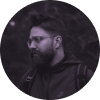
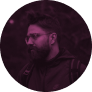
Additional theme, image optimization

diff --git a/index.html b/index.html
@@ -20,10 +20,12 @@
           <div>Designer</div>
         </div>
         <div class="cover">
-          <!-- <svg width="46" height="46" viewBox="0 0 46 46" fill="none" xmlns="http://www.w3.org/2000/svg">
+          <svg width="46" height="46" viewBox="0 0 46 46" fill="none" xmlns="http://www.w3.org/2000/svg">
             <circle cx="23" cy="23" r="23" fill="#482312"/>
-            <path fill-rule="evenodd" clip-rule="evenodd" d="M21.9167 21.9167C21.4508 18.9182 19.0818 16.5492 16.0833 16.0833C16.5492 19.0818 18.9182 21.4508 21.9167 21.9167ZM14.0496 14.0496C14.5244 9.52579 18.3504 6 23 6C27.6496 6 31.4756 9.52579 31.9504 14.0496C36.4742 14.5244 40 18.3504 40 23C40 27.6496 36.4742 31.4756 31.9504 31.9504C31.4756 36.4742 27.6496 40 23 40C18.3504 40 14.5244 36.4742 14.0496 31.9504C9.52579 31.4756 6 27.6496 6 23C6 18.3504 9.52579 14.5244 14.0496 14.0496ZM16.0623 31.938C16.5206 35.3605 19.4521 38 23 38C26.5479 38 29.4794 35.3605 29.9377 31.938C26.9099 31.5819 24.3418 29.7229 23 27.1272C21.6582 29.7229 19.0902 31.5819 16.0623 31.938ZM31.938 29.9377C35.3605 29.4794 38 26.5479 38 23C38 19.4521 35.3605 16.5206 31.938 16.0623C31.5819 19.0901 29.7229 21.6582 27.1272 23C29.7229 24.3418 31.5819 26.9099 31.938 29.9377ZM29.9167 29.9167C29.4508 26.9182 27.0818 24.5492 24.0833 24.0833C24.5492 27.0818 26.9182 29.4508 29.9167 29.9167ZM16.0833 29.9167C19.0818 29.4508 21.4508 27.0818 21.9167 24.0833C18.9182 24.5492 16.5492 26.9182 16.0833 29.9167ZM18.8728 23C16.2771 24.3418 14.4181 26.9099 14.062 29.9377C10.6396 29.4794 8 26.5479 8 23C8 19.4521 10.6395 16.5206 14.062 16.0623C14.4181 19.0901 16.2771 21.6582 18.8728 23ZM23 8C26.5479 8 29.4794 10.6396 29.9377 14.062C26.9099 14.4181 24.3418 16.2771 23 18.8728C21.6582 16.2771 19.0901 14.4181 16.0623 14.062C16.5206 10.6396 19.4521 8 23 8ZM29.9167 16.0833C26.9182 16.5492 24.5492 18.9182 24.0833 21.9167C27.0818 21.4508 29.4508 19.0818 29.9167 16.0833Z" fill="white"/>
-          </svg>             -->
+            <path class="yellow orange" fill-rule="evenodd" clip-rule="evenodd" d="M22 7H24V20.5858L33.6066 10.9792L35.0208 12.3934L25.4142 22H39V24H25.4142L35.0208 33.6066L33.6066 35.0208L24 25.4142V39H22V25.4142L12.3934 35.0208L10.9792 33.6066L20.5858 24H7V22H20.5858L10.9792 12.3934L12.3934 10.9792L22 20.5858V7Z" fill="white"/>
+            <path class="cyan purple" fill-rule="evenodd" clip-rule="evenodd" d="M21.9167 21.9167C21.4508 18.9182 19.0818 16.5492 16.0833 16.0833C16.5492 19.0818 18.9182 21.4508 21.9167 21.9167ZM14.0496 14.0496C14.5244 9.52579 18.3504 6 23 6C27.6496 6 31.4756 9.52579 31.9504 14.0496C36.4742 14.5244 40 18.3504 40 23C40 27.6496 36.4742 31.4756 31.9504 31.9504C31.4756 36.4742 27.6496 40 23 40C18.3504 40 14.5244 36.4742 14.0496 31.9504C9.52579 31.4756 6 27.6496 6 23C6 18.3504 9.52579 14.5244 14.0496 14.0496ZM16.0623 31.938C16.5206 35.3605 19.4521 38 23 38C26.5479 38 29.4794 35.3605 29.9377 31.938C26.9099 31.5819 24.3418 29.7229 23 27.1272C21.6582 29.7229 19.0902 31.5819 16.0623 31.938ZM31.938 29.9377C35.3605 29.4794 38 26.5479 38 23C38 19.4521 35.3605 16.5206 31.938 16.0623C31.5819 19.0901 29.7229 21.6582 27.1272 23C29.7229 24.3418 31.5819 26.9099 31.938 29.9377ZM29.9167 29.9167C29.4508 26.9182 27.0818 24.5492 24.0833 24.0833C24.5492 27.0818 26.9182 29.4508 29.9167 29.9167ZM16.0833 29.9167C19.0818 29.4508 21.4508 27.0818 21.9167 24.0833C18.9182 24.5492 16.5492 26.9182 16.0833 29.9167ZM18.8728 23C16.2771 24.3418 14.4181 26.9099 14.062 29.9377C10.6396 29.4794 8 26.5479 8 23C8 19.4521 10.6395 16.5206 14.062 16.0623C14.4181 19.0901 16.2771 21.6582 18.8728 23ZM23 8C26.5479 8 29.4794 10.6396 29.9377 14.062C26.9099 14.4181 24.3418 16.2771 23 18.8728C21.6582 16.2771 19.0901 14.4181 16.0623 14.062C16.5206 10.6396 19.4521 8 23 8ZM29.9167 16.0833C26.9182 16.5492 24.5492 18.9182 24.0833 21.9167C27.0818 21.4508 29.4508 19.0818 29.9167 16.0833Z" fill="white"/>
+            <path class="pink brown" fill-rule="evenodd" clip-rule="evenodd" d="M35.0769 27.5495C34.8477 26.7469 34.5383 25.9137 34.1511 25.0631C33.0396 26.7741 31.6719 28.4702 30.071 30.0711C28.4701 31.6719 26.7741 33.0396 25.0632 34.1511C25.9137 34.5383 26.7469 34.8477 27.5494 35.077C30.8224 36.0121 33.1079 35.5195 34.3137 34.3137C35.5195 33.1079 36.0121 30.8224 35.0769 27.5495ZM35.7279 35.7279C38.3867 33.0692 38.0614 28.1119 35.3647 23C38.0613 17.888 38.3866 12.9308 35.7279 10.2721C33.0691 7.61336 28.1119 7.93861 23 10.6353C17.8881 7.93861 12.9308 7.61336 10.2721 10.2721C7.61335 12.9308 7.9386 17.888 10.6353 23C7.93855 28.1119 7.61329 33.0692 10.272 35.7279C12.9308 38.3867 17.888 38.0614 23 35.3647C28.1119 38.0614 33.0692 38.3867 35.7279 35.7279ZM27.5494 10.9231C26.7469 11.1523 25.9137 11.4617 25.0632 11.8489C26.7741 12.9604 28.4702 14.3281 30.0711 15.9289C31.6719 17.5298 33.0396 19.2258 34.1511 20.9368C34.5383 20.0863 34.8476 19.253 35.0769 18.4506C36.012 15.1776 35.5195 12.8921 34.3137 11.6863C33.1078 10.4805 30.8224 9.98791 27.5494 10.9231ZM28.6568 17.3432C26.8345 15.5208 24.9017 14.0403 23 12.9242C21.0982 14.0403 19.1654 15.5208 17.3431 17.3432C15.5208 19.1655 14.0403 21.0982 12.9242 23C14.0403 24.9017 15.5208 26.8345 17.3431 28.6569C19.1655 30.4792 21.0982 31.9597 23 33.0758C24.9017 31.9597 26.8345 30.4792 28.6568 28.6569C30.4792 26.8345 31.9597 24.9018 33.0757 23C31.9597 21.0982 30.4792 19.1655 28.6568 17.3432ZM18.4506 10.9231C19.253 11.1523 20.0863 11.4617 20.9368 11.8489C19.2258 12.9604 17.5298 14.3281 15.9289 15.9289C14.328 17.5298 12.9604 19.2258 11.8489 20.9368C11.4617 20.0863 11.1523 19.253 10.923 18.4506C9.9879 15.1776 10.4805 12.8921 11.6863 11.6863C12.8921 10.4805 15.1776 9.98791 18.4506 10.9231ZM10.923 27.5495C11.1523 26.7469 11.4616 25.9137 11.8489 25.0632C12.9604 26.7741 14.328 28.4702 15.9289 30.0711C17.5298 31.6719 19.2258 33.0396 20.9368 34.1511C20.0863 34.5383 19.253 34.8477 18.4505 35.077C15.1775 36.0121 12.892 35.5195 11.6862 34.3137C10.4804 33.1079 9.98785 30.8225 10.923 27.5495ZM23 25C24.1046 25 25 24.1046 25 23C25 21.8954 24.1046 21 23 21C21.8954 21 21 21.8954 21 23C21 24.1046 21.8954 25 23 25Z" fill="white"/>
+          </svg>
         </div>
       </header>
       <hr>
@@ -63,7 +65,7 @@
    
     <script>
       var tooltip = document.querySelectorAll('.tooltip');
-      var classes = ['yellow', 'orange', 'cyan', 'pink', 'brown'];
+      var classes = ['yellow', 'orange', 'cyan', 'pink', 'brown', 'purple'];
 
       document.addEventListener('mousemove', fn, false);
 

diff --git a/style.css b/style.css
@@ -26,6 +26,24 @@
   }
 }
 
+@keyframes rotate {
+  0% {
+        -ms-transform: rotate(0deg);
+       -moz-transform: rotate(0deg);
+    -webkit-transform: rotate(0deg);
+         -o-transform: rotate(0deg);
+            transform: rotate(0deg);
+  }
+
+  100% {
+        -ms-transform: rotate(360deg);
+       -moz-transform: rotate(360deg);
+    -webkit-transform: rotate(360deg);
+         -o-transform: rotate(360deg);
+            transform: rotate(360deg);
+  }
+}
+
 * {
   box-sizing: border-box;
 }
@@ -69,11 +87,15 @@ body.cyan {
 }
 
 body.pink {
-  background-color: #C0A4CC;
+  background-color: #B24E87;
 }
 
 body.brown {
   background-color: #80673F;
+}
+
+body.purple {
+  background-color: #594BFA;
 }
 
 @media all and (max-width: 639px) {
@@ -220,6 +242,7 @@ a {
   border-radius: 99999px;
   background-color: rgba(72, 35, 18, 1);
   margin-left: 5px;
+  cursor: pointer;
 }
 
 @media all and (max-width: 639px) {
@@ -229,27 +252,49 @@ a {
   }
 }
 
-/* .cover svg {
-  opacity: 0;
-  visibility: hidden;
+.cover path {
+  display: none;
+}
+
+.cover svg {
+  width: 100%;
+  height: 100%;
+  opacity: 1;
+  visibility: visible;
   background-color: rgba(72, 35, 18, 1);
   border-radius: 99999px;
-  -webkit-transition: all 0.5s ease-in-out;
-     -moz-transition: all 0.5s ease-in-out;
-      -ms-transition: all 0.5s ease-in-out;
-       -o-transition: all 0.5s ease-in-out;
-          transition: all 0.5s ease-in-out;
+  -webkit-transition: all 0.25s ease-in-out;
+     -moz-transition: all 0.25s ease-in-out;
+      -ms-transition: all 0.25s ease-in-out;
+       -o-transition: all 0.25s ease-in-out;
+          transition: all 0.25s ease-in-out;
 }
 
 .cover:hover svg {
-  opacity: 1;
-  visibility: visible;
-  -webkit-transition: all 0.5s ease-in-out 1s;
-     -moz-transition: all 0.5s ease-in-out 1s;
-      -ms-transition: all 0.5s ease-in-out 1s;
-       -o-transition: all 0.5s ease-in-out 1s;
-          transition: all 0.5s ease-in-out 1s;
-} */
+  opacity: 0;
+  visibility: hidden;
+  -webkit-animation: rotate 2s linear infinite;
+     -moz-animation: rotate 2s linear infinite;
+       -o-animation: rotate 2s linear infinite;
+          animation: rotate 2s linear infinite;
+  -webkit-transition: all 0.25s ease-in-out 3s;
+     -moz-transition: all 0.25s ease-in-out 3s;
+      -ms-transition: all 0.25s ease-in-out 3s;
+       -o-transition: all 0.25s ease-in-out 3s;
+          transition: all 0.25s ease-in-out 3s;
+}
+
+.yellow path.yellow, .orange path.orange {
+  display: initial;
+}
+
+.cyan path.cyan, .purple path.purple {
+  display: initial;
+}
+
+.pink path.pink, .brown path.brown {
+  display: initial;
+}
 
 .yellow .cover {
   background-image: url('images/photo-yellow.png');
@@ -269,6 +314,10 @@ a {
 
 .brown .cover {
   background-image: url('images/photo-brown.png');
+}
+
+.purple .cover {
+  background-image: url('images/photo-purple.png');
 }
 
 .yellow a {
@@ -296,11 +345,11 @@ a {
 }
 
 .pink a {
-  text-shadow: 0px 3px #C0A4CC,
-              -1px 3px #C0A4CC,
-              -2px 3px #C0A4CC,
-               1px 3px #C0A4CC,
-               2px 3px #C0A4CC;
+  text-shadow: 0px 3px #B24E87,
+              -1px 3px #B24E87,
+              -2px 3px #B24E87,
+               1px 3px #B24E87,
+               2px 3px #B24E87;
 }
 
 .brown a {
@@ -309,6 +358,14 @@ a {
               -2px 3px #80673F,
                1px 3px #80673F,
                2px 3px #80673F;
+}
+
+.purple a {
+  text-shadow: 0px 3px #594BFA,
+              -1px 3px #594BFA,
+              -2px 3px #594BFA,
+               1px 3px #594BFA,
+               2px 3px #594BFA;
 }
 
 a:hover{
